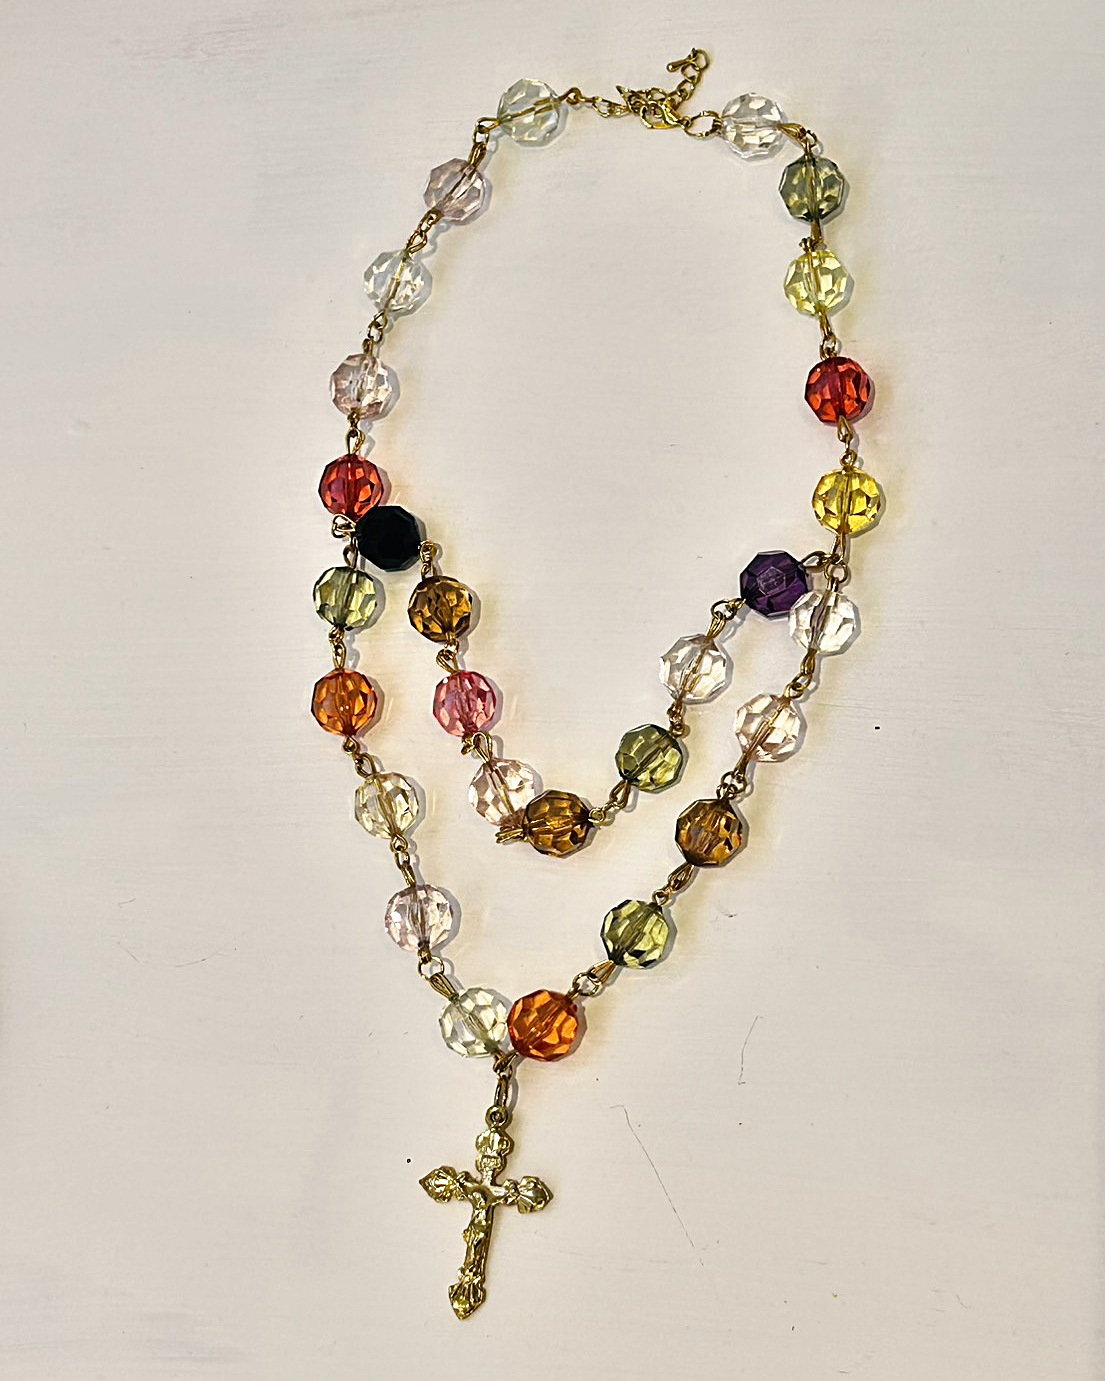
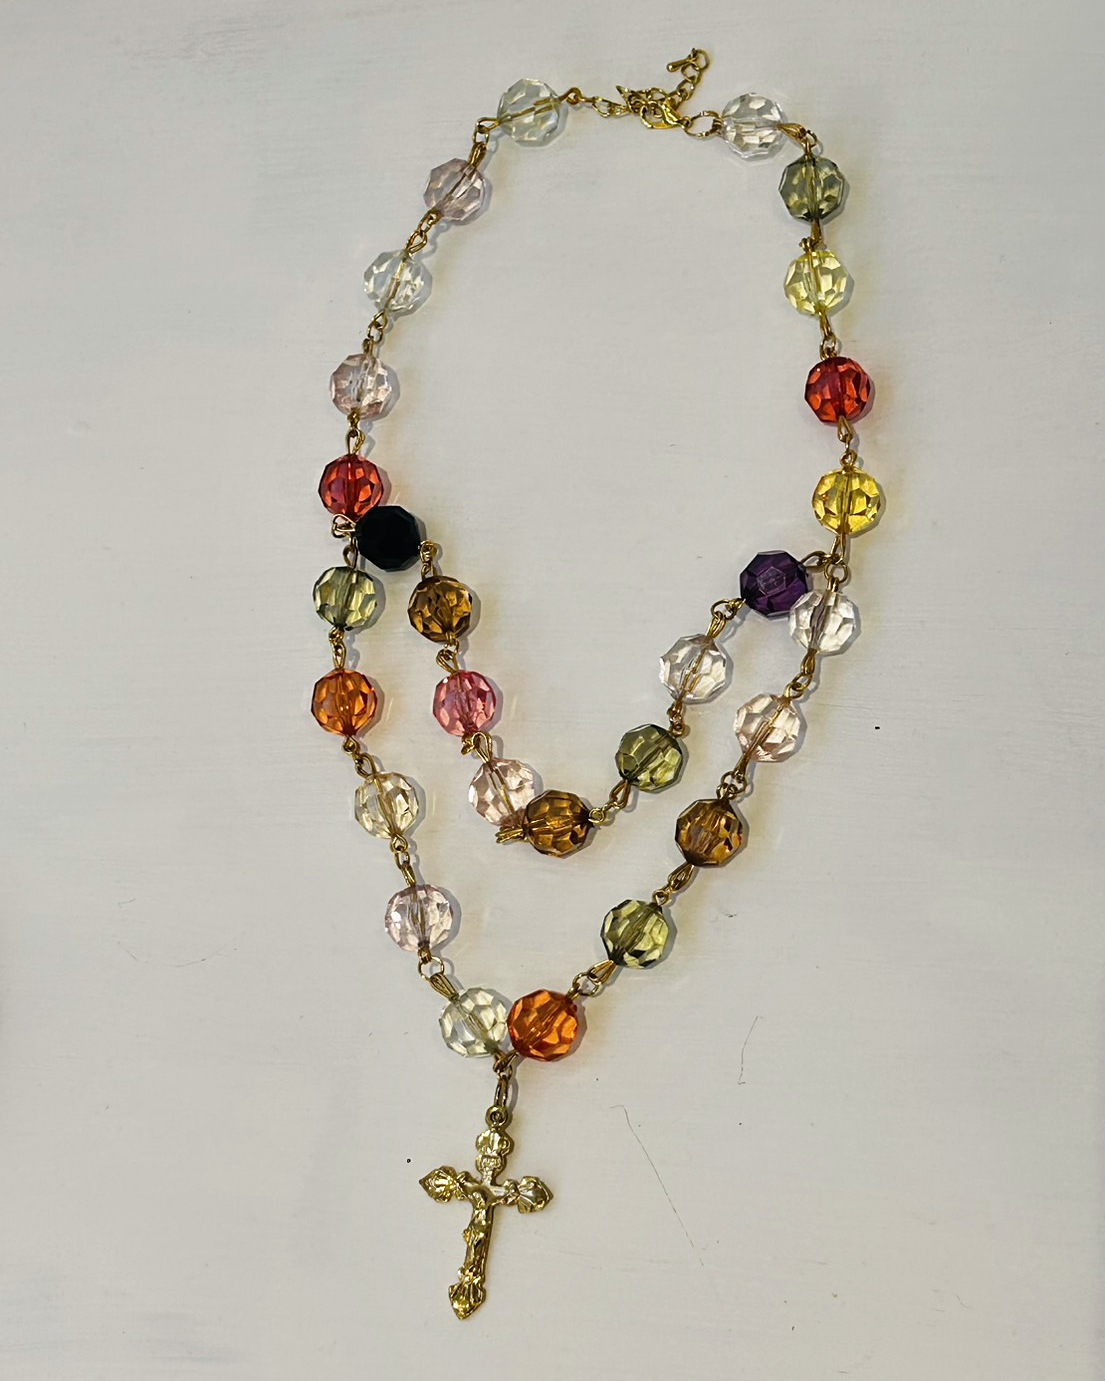
acc-09: gentler, more natural retouch

Changed region(s): [[0.2462, 0.0, 0.8923, 0.9652], [0.9846, 0.0934, 1.0, 0.1245]]

diff --git a/index.html b/index.html
@@ -516,7 +516,7 @@ const ACCESSORIES = [
     media: "手作耳環 · Handmade earrings", style: "復古典雅",
     desc: "用琥珀色管珠一圈圈繞成圓盤，中間鑲一顆大珍珠，再點上金色小花片。光線照過去，串珠會透出蜂蜜般的暖光，有種復古珠寶盒裡的味道，搭針織、風衣都很有氣質。",
     details: ["琥珀管珠", "手工繞圈", "大顆珍珠", "金色花片"] },
-  { no: "09", type: "necklace", file: "works/acc-09.jpg?v=20261123a", title: "繽紛切面水晶十字架雙層鍊", en: "Prism Crystal Cross",
+  { no: "09", type: "necklace", file: "works/acc-09.jpg?v=20261123b", title: "繽紛切面水晶十字架雙層鍊", en: "Prism Crystal Cross",
     media: "手作項鍊 · Handmade necklace", style: "復古雙層",
     desc: "透明、淡粉、琥珀、橄欖綠、紫與橘紅的切面水晶，一顆顆用金色環扣串起，繞成長短兩層，尾端垂著一枚金色十字架。光線下每個切面都閃閃發亮，顏色豐富卻帶著復古的溫潤感。",
     details: ["多色切面水晶", "金色環扣", "雙層設計", "金色十字架"] }
